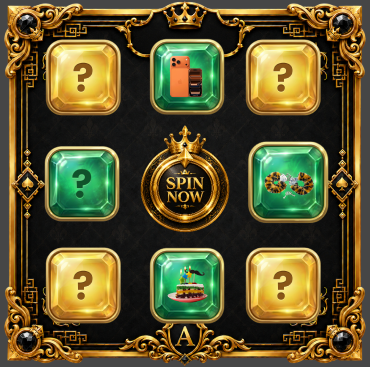
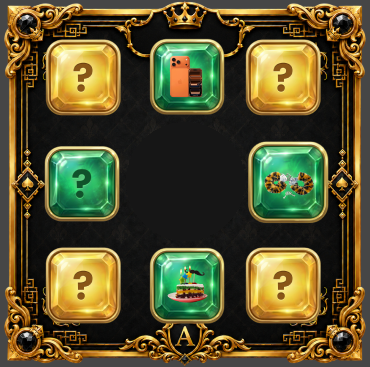
fix(theme): Acebet77 Lucky Spin — spin the centre medallion
Follow-up to the grid-wheel change: the redesign spins the centre SPIN NOW
medallion (Figma 30:118), it is not a highlight racing around the tiles. Erase
the baked medallion from wheel.png and overlay it live so it can rotate
(settling upright over 6 turns); the winning tile only lights up once it
settles, and the glow clears when the result dialog closes.

Changed region(s): [[0.3568, 0.3297, 0.6243, 0.6294]]

diff --git a/app/components/themes/acebet77/Acebet77SpinPage.jsx b/app/components/themes/acebet77/Acebet77SpinPage.jsx
@@ -39,8 +39,10 @@ export default function Acebet77SpinPage() {
 
   const spinResultsRef = useRef(null);
   const isProcessingRef = useRef(false);
-  const spin = useMotionValue(0);
-  const spinRef = useRef(0);
+  // The centre medallion is the spinner: this drives its rotation. The wheel
+  // itself is a fixed grid, so nothing races around the tiles.
+  const rotation = useMotionValue(0);
+  const rotationRef = useRef(0);
   const spinAnimRef = useRef(null);
 
   useEffect(() => {
@@ -78,25 +80,23 @@ export default function Acebet77SpinPage() {
     }
   }, []);
 
-  // Race the highlight around the ring and land on the winner. One motion value
-  // is the single source of truth; the lit tile is derived from it each frame.
+  // Spin the centre medallion several whole turns (settling upright), then
+  // light up the winning tile once it stops. No highlight races around the
+  // grid — the medallion is the spinner, matching Figma 30:118.
   const spinToWinner = useCallback((targetIndex, onDone) => {
-    const from = spinRef.current;
-    const base = from + SLOT_COUNT * 5; // at least 5 full loops
-    const extra = (((targetIndex - (Math.round(base) % SLOT_COUNT)) % SLOT_COUNT) + SLOT_COUNT) % SLOT_COUNT;
-    const to = base + extra;
-    spinRef.current = to;
-    const litFor = (v) => ((Math.round(v) % SLOT_COUNT) + SLOT_COUNT) % SLOT_COUNT;
-    spinAnimRef.current = animate(spin, to, {
+    const from = rotationRef.current;
+    const to = from + 360 * 6; // 6 full turns → settles upright
+    rotationRef.current = to;
+    setHighlightIndex(null);
+    spinAnimRef.current = animate(rotation, to, {
       duration: 3.6,
       ease: [0.12, 0.7, 0.2, 1],
-      onUpdate: (v) => setHighlightIndex(litFor(v)),
       onComplete: () => {
-        setHighlightIndex(targetIndex);
-        onDone();
+        setHighlightIndex(targetIndex); // reveal the winner
+        setTimeout(onDone, 650);        // brief glow before the dialog
       },
     });
-  }, [spin]);
+  }, [rotation]);
 
   const handleSpin = useCallback(
     async (spinFunction, spinType) => {
@@ -144,6 +144,11 @@ export default function Acebet77SpinPage() {
     [isSpinning, spinItems, refreshUserData, spinToWinner, finishSpin]
   );
 
+  const closeDialog = useCallback(() => {
+    setDialog(null);
+    setHighlightIndex(null); // clear the winner glow when leaving the result
+  }, []);
+
   const handleReturnToWebsite = useCallback(() => {
     const savedO = tokenStorage.getRedirectO();
     if (!savedO) {
@@ -189,14 +194,22 @@ export default function Acebet77SpinPage() {
             />
           )}
 
-          {/* Centre SPIN NOW (baked into the wheel art) — transparent hit area */}
-          <motion.button
-            onClick={() => handleSpin(oneSpin, 'one spin')}
-            disabled={isSpinning || itemsLoading}
-            aria-label="Spin now"
-            className="absolute left-1/2 top-1/2 -translate-x-1/2 -translate-y-1/2 w-[30%] aspect-square rounded-full cursor-pointer disabled:cursor-not-allowed"
-            whileTap={{ scale: 0.92 }}
-          />
+          {/* Centre SPIN NOW medallion — erased from the wheel art and overlaid
+              here so it can rotate while spinning. Outer wrapper owns the
+              centring translate; the inner motion element owns the rotation so
+              framer-motion's transform doesn't clobber the centring. */}
+          <div className="absolute left-1/2 top-1/2 -translate-x-1/2 -translate-y-1/2 w-[30%] aspect-square z-[4]">
+            <motion.button
+              onClick={() => handleSpin(oneSpin, 'one spin')}
+              disabled={isSpinning || itemsLoading}
+              aria-label="Spin now"
+              className="relative w-full h-full cursor-pointer disabled:cursor-not-allowed"
+              whileTap={{ scale: 0.94 }}
+              style={{ rotate: rotation }}
+            >
+              <Image src={ACEBET_ASSETS.spin.spinNow} alt="Spin Now" fill className="object-contain" sizes="130px" />
+            </motion.button>
+          </div>
         </div>
 
         {/* Loading plaque (Figma 14:117) */}
@@ -278,7 +291,7 @@ export default function Acebet77SpinPage() {
 
       {/* Result / error dialog: heading + detail inside the ornate frame,
           action buttons below (keeps the heading clear of the crown). */}
-      <AcebetDialog open={!!dialog} onClose={() => setDialog(null)} frameless>
+      <AcebetDialog open={!!dialog} onClose={closeDialog} frameless>
         <AcebetOrnateCard>
           <div className="flex items-center gap-2">
             {dialog?.type === 'win' && (
@@ -314,13 +327,13 @@ export default function Acebet77SpinPage() {
         </AcebetOrnateCard>
         {dialog?.type === 'win' ? (
           <>
-            <AcebetButton onClick={() => setDialog(null)}>Spin Again</AcebetButton>
+            <AcebetButton onClick={closeDialog}>Spin Again</AcebetButton>
             <AcebetButton variant="gold" onClick={handleReturnToWebsite}>
               Return To Website
             </AcebetButton>
           </>
         ) : (
-          <AcebetButton onClick={() => setDialog(null)}>Close</AcebetButton>
+          <AcebetButton onClick={closeDialog}>Close</AcebetButton>
         )}
       </AcebetDialog>
     </AcebetShell>

diff --git a/app/components/themes/acebet77/assets.js b/app/components/themes/acebet77/assets.js
@@ -41,9 +41,11 @@ export const ACEBET_ASSETS = {
   spin: {
     bg: `${BASE}/spin/bg-spin.png`,
     title: `${BASE}/spin/title-lucky-spin.png`,
-    // Updated Figma (15:195): the wheel is now a flat 3x3 prize grid with a
-    // centre SPIN NOW button, not the old radial rotating wheel.
+    // Updated Figma (15:195): the wheel is now a flat 3x3 prize grid. The
+    // centre SPIN NOW medallion is erased from wheel.png and overlaid live
+    // (spinNow) so it can rotate while spinning (Figma 30:118).
     wheel: `${BASE}/spin/wheel.png`,
+    spinNow: `${BASE}/spin/spin-now.png`,
     btnPlay: `${BASE}/spin/btn-play.png`,
     panel: `${BASE}/spin/panel-ornate.png`,
   },
